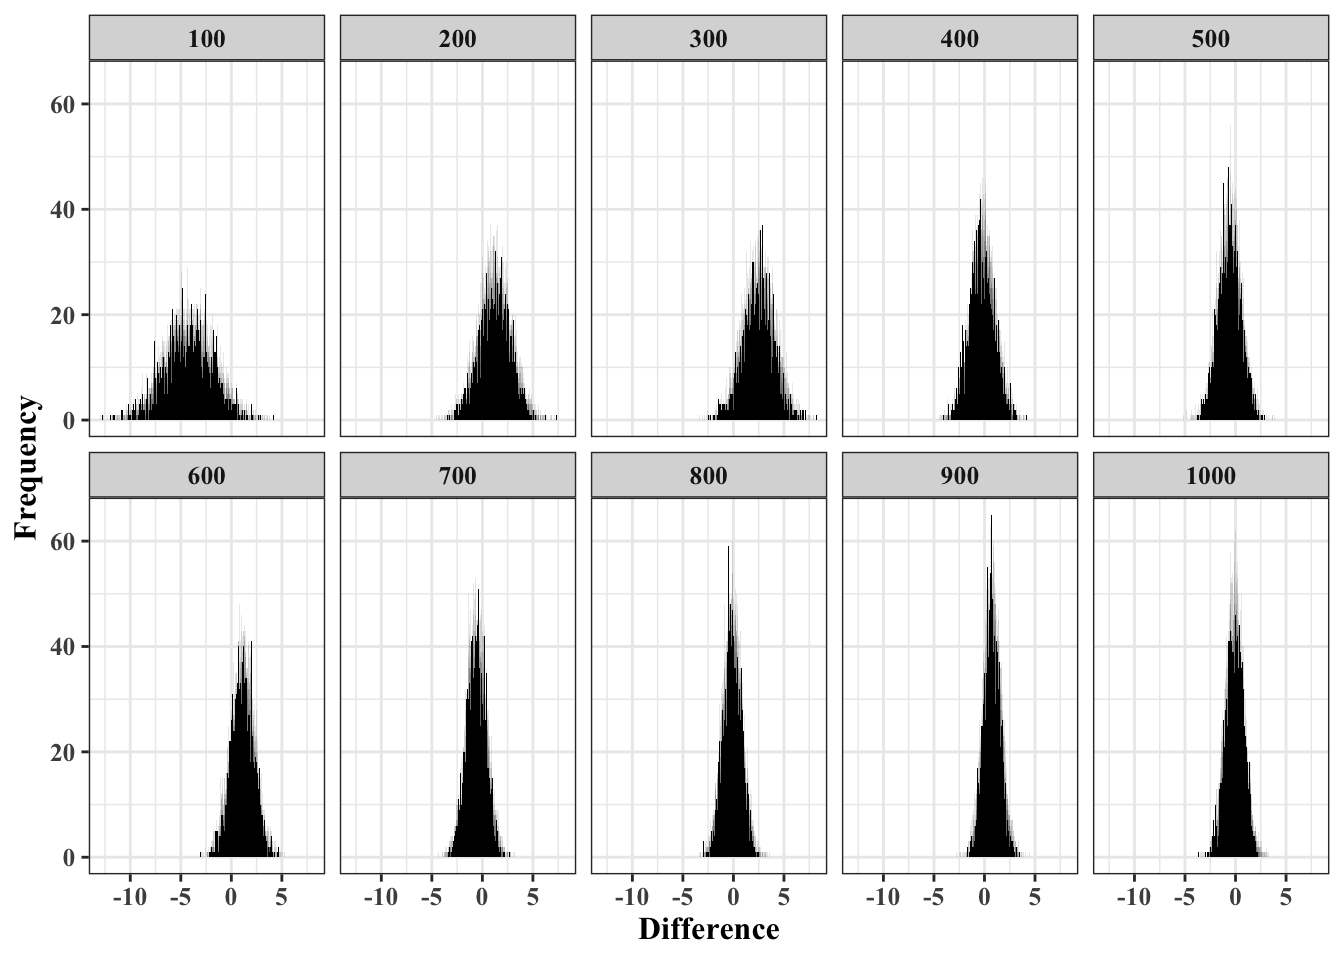
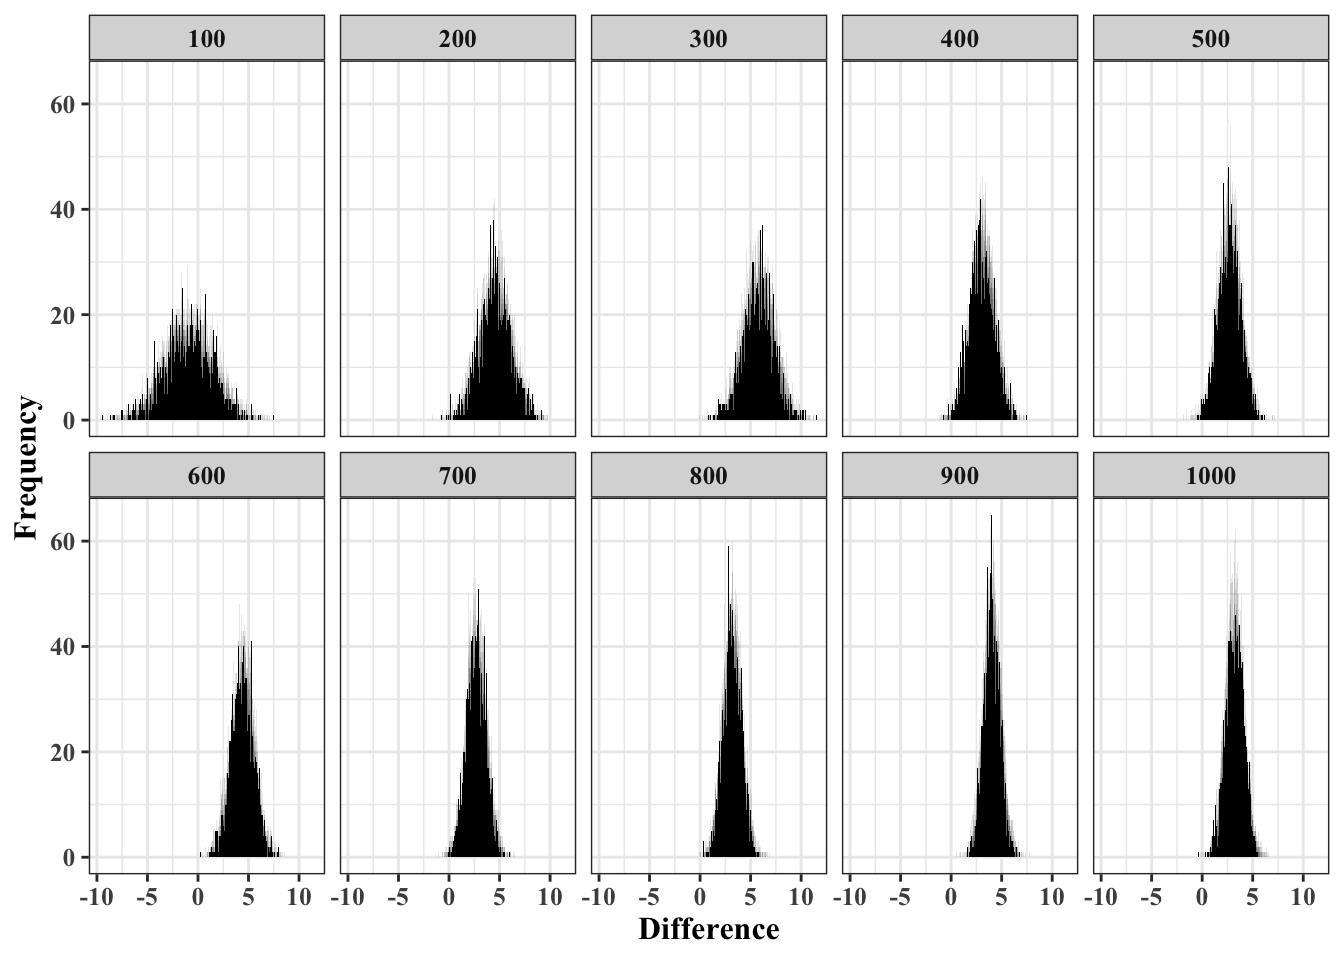
updated with informal bayes post

diff --git a/_site/posts/Easy Inference with Informal Bayes/index.html b/_site/posts/Easy Inference with Informal Bayes/index.html
@@ -249,7 +249,7 @@ code span.wa { color: #60a0b0; font-weight: bold; font-style: italic; } /* Warni
 <div class="cell">
 <details>
 <summary>Code</summary>
-<div class="sourceCode cell-code" id="cb2"><pre class="sourceCode r code-with-copy"><code class="sourceCode r"><span id="cb2-1"><a href="#cb2-1" aria-hidden="true" tabindex="-1"></a>simple_sim <span class="ot">&lt;-</span> <span class="cf">function</span>(<span class="at">n =</span> <span class="fl">1e3</span>, <span class="at">bx =</span> <span class="fu">c</span>(<span class="dv">2</span>,<span class="fl">2.7</span>,<span class="dv">4</span>), <span class="at">const =</span> <span class="dv">5</span>,</span>
+<div class="sourceCode cell-code" id="cb2"><pre class="sourceCode r code-with-copy"><code class="sourceCode r"><span id="cb2-1"><a href="#cb2-1" aria-hidden="true" tabindex="-1"></a>simple_sim <span class="ot">&lt;-</span> <span class="cf">function</span>(<span class="at">n =</span> <span class="fl">1e3</span>, <span class="at">bx =</span> <span class="fu">c</span>(<span class="dv">2</span>,<span class="dv">6</span>,<span class="dv">4</span>), <span class="at">const =</span> <span class="dv">5</span>,</span>
 <span id="cb2-2"><a href="#cb2-2" aria-hidden="true" tabindex="-1"></a>                       <span class="at">mu =</span> <span class="fu">c</span>(<span class="dv">10</span>, <span class="dv">3</span>, <span class="dv">4</span>), </span>
 <span id="cb2-3"><a href="#cb2-3" aria-hidden="true" tabindex="-1"></a>                       <span class="at">sigma =</span> <span class="fu">matrix</span>(</span>
 <span id="cb2-4"><a href="#cb2-4" aria-hidden="true" tabindex="-1"></a>                               <span class="at">data =</span> <span class="fu">c</span>(<span class="fl">1.11</span>, <span class="fl">0.66</span>, <span class="sc">-</span><span class="fl">0.54</span>,  </span>
@@ -290,12 +290,12 @@ code span.wa { color: #60a0b0; font-weight: bold; font-style: italic; } /* Warni
 <span id="cb3-12"><a href="#cb3-12" aria-hidden="true" tabindex="-1"></a><span class="fu">head</span>(dfout,<span class="dv">5</span>)</span></code><button title="Copy to Clipboard" class="code-copy-button"><i class="bi"></i></button></pre></div>
 </details>
 <div class="cell-output cell-output-stdout">
-<pre><code>  (Intercept)       x1          z1        c samples
-1   -37.27578 6.713368 -2.13087419 6.607417     100
-2   -22.99647 5.028081 -0.09456565 5.264976     100
-3   -37.89262 6.541961 -1.30074997 6.241230     100
-4   -14.29463 3.982110  0.76550827 5.451617     100
-5   -29.11941 6.038991 -2.25741439 5.972961     100</code></pre>
+<pre><code>  (Intercept)       x1       z1        c samples
+1   -37.27578 6.713368 1.169126 6.607417     100
+2   -22.99647 5.028081 3.205434 5.264976     100
+3   -37.89262 6.541961 1.999250 6.241230     100
+4   -14.29463 3.982110 4.065508 5.451617     100
+5   -29.11941 6.038991 1.042586 5.972961     100</code></pre>
 </div>
 </div>
 <p>Having conducted informal Bayes, the results can be easily plotted, as in the figure below. The figure gives us a feel for the implications of the sample size for the difference in conditional mean parameters in a linear model. The results show that, under the assumptions of the model and a difference of .7, with no heterogeneity, you’d probably want a sample of at least 700. If those assumptions aren’t reasonable, or you need additional covariates, then you can adjust the simulation.</p>

diff --git a/_site/index.html b/_site/index.html
@@ -151,7 +151,7 @@ ul.task-list{list-style: none;}
 
 <div class="quarto-listing quarto-listing-container-default" id="listing-listing">
 <div class="list quarto-listing-default">
-<div class="quarto-post image-right" data-index="0" data-categories="bayesian inference,simulation,base r" data-listing-date-sort="1668488400000" data-listing-file-modified-sort="1668550480980" data-listing-reading-time-sort="7.08">
+<div class="quarto-post image-right" data-index="0" data-categories="bayesian inference,simulation,base r" data-listing-date-sort="1668488400000" data-listing-file-modified-sort="1668555527202" data-listing-reading-time-sort="7.08">
 <div class="thumbnail">
 <p><a href="./posts/Easy Inference with Informal Bayes/index.html"> <img src="./posts/Easy Inference with Informal Bayes/roller_skates.webp" class="thumnail-image"> </a></p>
 </div>
